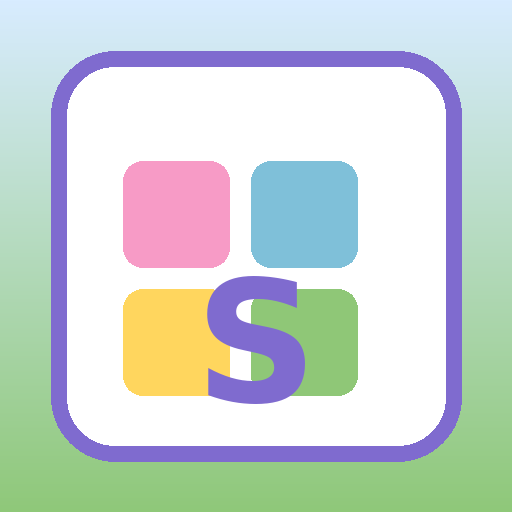
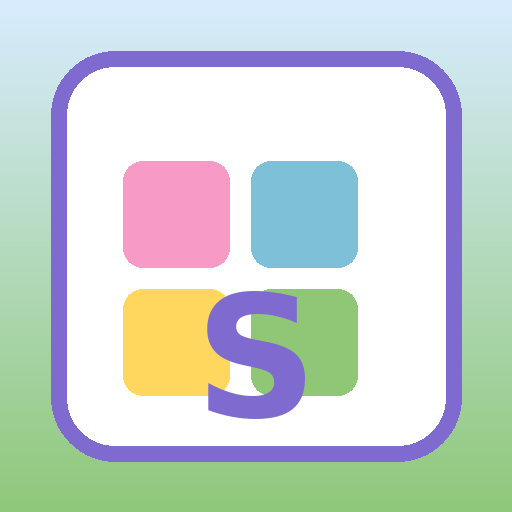
Add files via upload

Changed region(s): [[0.4062, 0.5312, 0.5938, 0.8438]]

diff --git a/service-worker.js b/service-worker.js
@@ -1,36 +1,19 @@
-const CACHE_NAME = 'sohee-50-world-puzzle-fixed-v2';
-const ASSETS = [
-  './',
-  './index.html',
-  './manifest.json',
-  './icon-192.png',
-  './icon-512.png',
-  './cartoon_puzzle_bgm.wav'
-];
+const CACHE_NAME = 'sohee-100-world-puzzle-girly-v1';
+const ASSETS = ['./','./index.html','./manifest.json','./icon-192.png','./icon-512.png','./cartoon_puzzle_bgm.wav'];
 
 self.addEventListener('install', event => {
-  event.waitUntil(
-    caches.open(CACHE_NAME).then(cache => cache.addAll(ASSETS)).then(() => self.skipWaiting())
-  );
+  event.waitUntil(caches.open(CACHE_NAME).then(cache => cache.addAll(ASSETS)).then(() => self.skipWaiting()));
 });
 
 self.addEventListener('activate', event => {
-  event.waitUntil(
-    caches.keys().then(keys => Promise.all(keys.map(key => {
-      if (key !== CACHE_NAME) return caches.delete(key);
-    }))).then(() => self.clients.claim())
-  );
+  event.waitUntil(caches.keys().then(keys => Promise.all(keys.map(key => key !== CACHE_NAME ? caches.delete(key) : undefined))).then(() => self.clients.claim()));
 });
 
 self.addEventListener('fetch', event => {
   if (event.request.method !== 'GET') return;
-  event.respondWith(
-    caches.match(event.request).then(cached => {
-      return cached || fetch(event.request).then(response => {
-        const copy = response.clone();
-        caches.open(CACHE_NAME).then(cache => cache.put(event.request, copy));
-        return response;
-      }).catch(() => caches.match('./index.html'));
-    })
-  );
+  event.respondWith(caches.match(event.request).then(cached => cached || fetch(event.request).then(response => {
+    const copy = response.clone();
+    caches.open(CACHE_NAME).then(cache => cache.put(event.request, copy));
+    return response;
+  }).catch(() => caches.match('./index.html'))));
 });